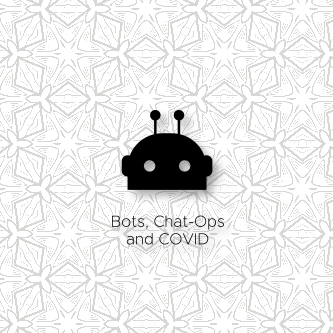
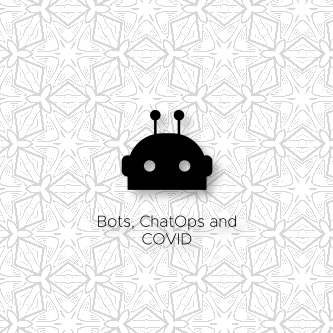
iRemoved some rogue files

Changed region(s): [[0.3003, 0.6306, 0.7207, 0.7508]]

diff --git a/presentations/BotsChatOpsCovid/chatops.html b/presentations/BotsChatOpsCovid/chatops.html
@@ -13,11 +13,11 @@ categories:
  - News
 ---
 
-    <h1>Bots, Chat-Ops and COVID</h1>
+    <h1>Bots, ChatOps and COVID</h1>
     
     <p><em>This is a presentation prepared for <a href="https://www.finos.org">FINOS'</a> Open Source Strategy Forum, 2020. It is quite a lot 
     about chat-bots and my <a href="http://github.com/finos/symphony-java-toolkit">Symphony Java Toolkit</a>, but there's some stuff on 
-    Agile and Chat-Ops that makes it relevant to readers here.</em></p>
+    Agile and ChatOps that makes it relevant to readers here.</em></p>
 
     <div class="slides">
         
@@ -26,7 +26,7 @@ categories:
                 <img src="images/images.001.jpg" alt="Image of slide number 1" />
             </div>
             <div class="slide-notes">
-                      <p>Hi Thanks for joining my talk:  Bots, Chat-Ops, COVID and The Symphony Java Toolkit.  </p>
+                      <p>Hi Thanks for joining my talk:  Bots, ChatOps, COVID and The Symphony Java Toolkit.  </p>
 
       <p>I’m also going to talk about Hackathons, Work-flow, Agile, GitHub and Open-Source as we go.  Hopefully, I’ll be able to tie all that together into some consistent whole, but we’ll see. </p>
 
